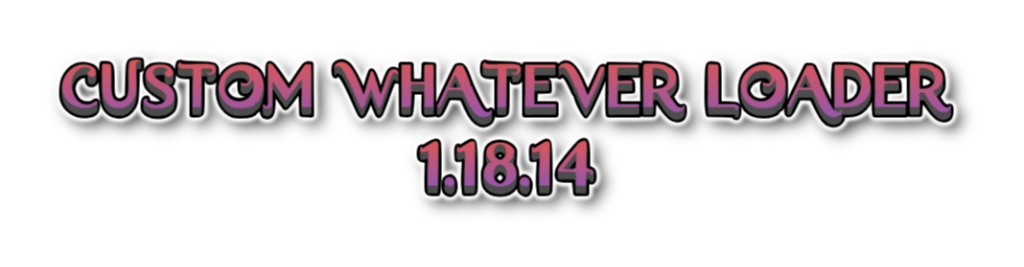
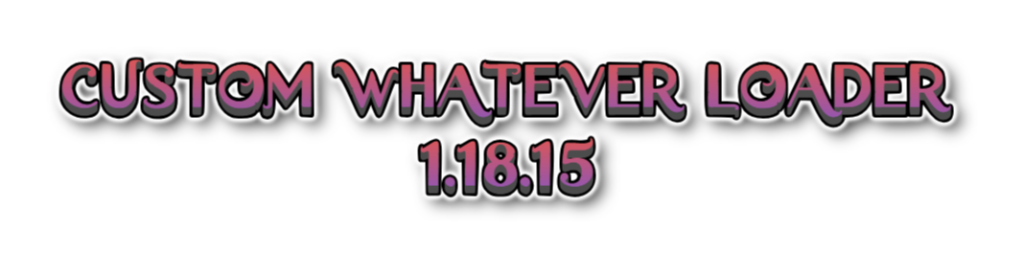
fix!!(CWL): path ext soft lock

diff --git a/CustomWhateverLoader/Helper/String/PathTruncation.cs b/CustomWhateverLoader/Helper/String/PathTruncation.cs
@@ -1,0 +1,17 @@
+using System.IO;
+
+namespace Cwl.Helper.String;
+
+public static class PathTruncation
+{
+    public static string ShortPath(this string path)
+    {
+        return ShortPath(new FileInfo(path));
+    }
+    
+    public static string ShortPath(this FileInfo file)
+    {
+        var owner = file.Directory!.Parent!.Parent!.Parent;
+        return file.FullName[(owner!.Parent!.FullName.Length + 1)..].NormalizePath();
+    }
+}

diff --git a/CustomWhateverLoader/Helper/FileUtil/PackageIterator.cs b/CustomWhateverLoader/Helper/FileUtil/PackageIterator.cs
@@ -19,7 +19,7 @@ public static class PackageIterator
             .SelectMany(d => d.GetDirectories("Lang*"))
             .SelectMany(d => d.GetFiles(pattern, SearchOption.AllDirectories))
             .Select(f => f.FullName)
-            .Select(PathExt.NormalizePath);
+            .Select(PathNormalizer.NormalizePath);
     }
 
     public static IEnumerable<DirectoryInfo> GetLangModFilesFromPackage(string? modGuid = null)

diff --git a/CustomWhateverLoader/Loader/CustomWhateverLoader.cs b/CustomWhateverLoader/Loader/CustomWhateverLoader.cs
@@ -8,7 +8,7 @@ public static class ModInfo
     // for legacy reason
     public const string Guid = "dk.elinplugins.customdialogloader";
     public const string Name = "Custom Whatever Loader";
-    public const string Version = "1.18.14";
+    public const string Version = "1.18.15";
 }
 
 [BepInPlugin(ModInfo.Guid, ModInfo.Name, ModInfo.Version)]

diff --git a/CustomWhateverLoader/Helper/String/PathNormalizer.cs b/CustomWhateverLoader/Helper/String/PathNormalizer.cs
@@ -1,0 +1,8 @@
+namespace Cwl.Helper.String;
+public static class PathNormalizer
+{
+    public static string NormalizePath(this string path)
+    {
+        return path.Replace('\\', '/');
+    }
+}
